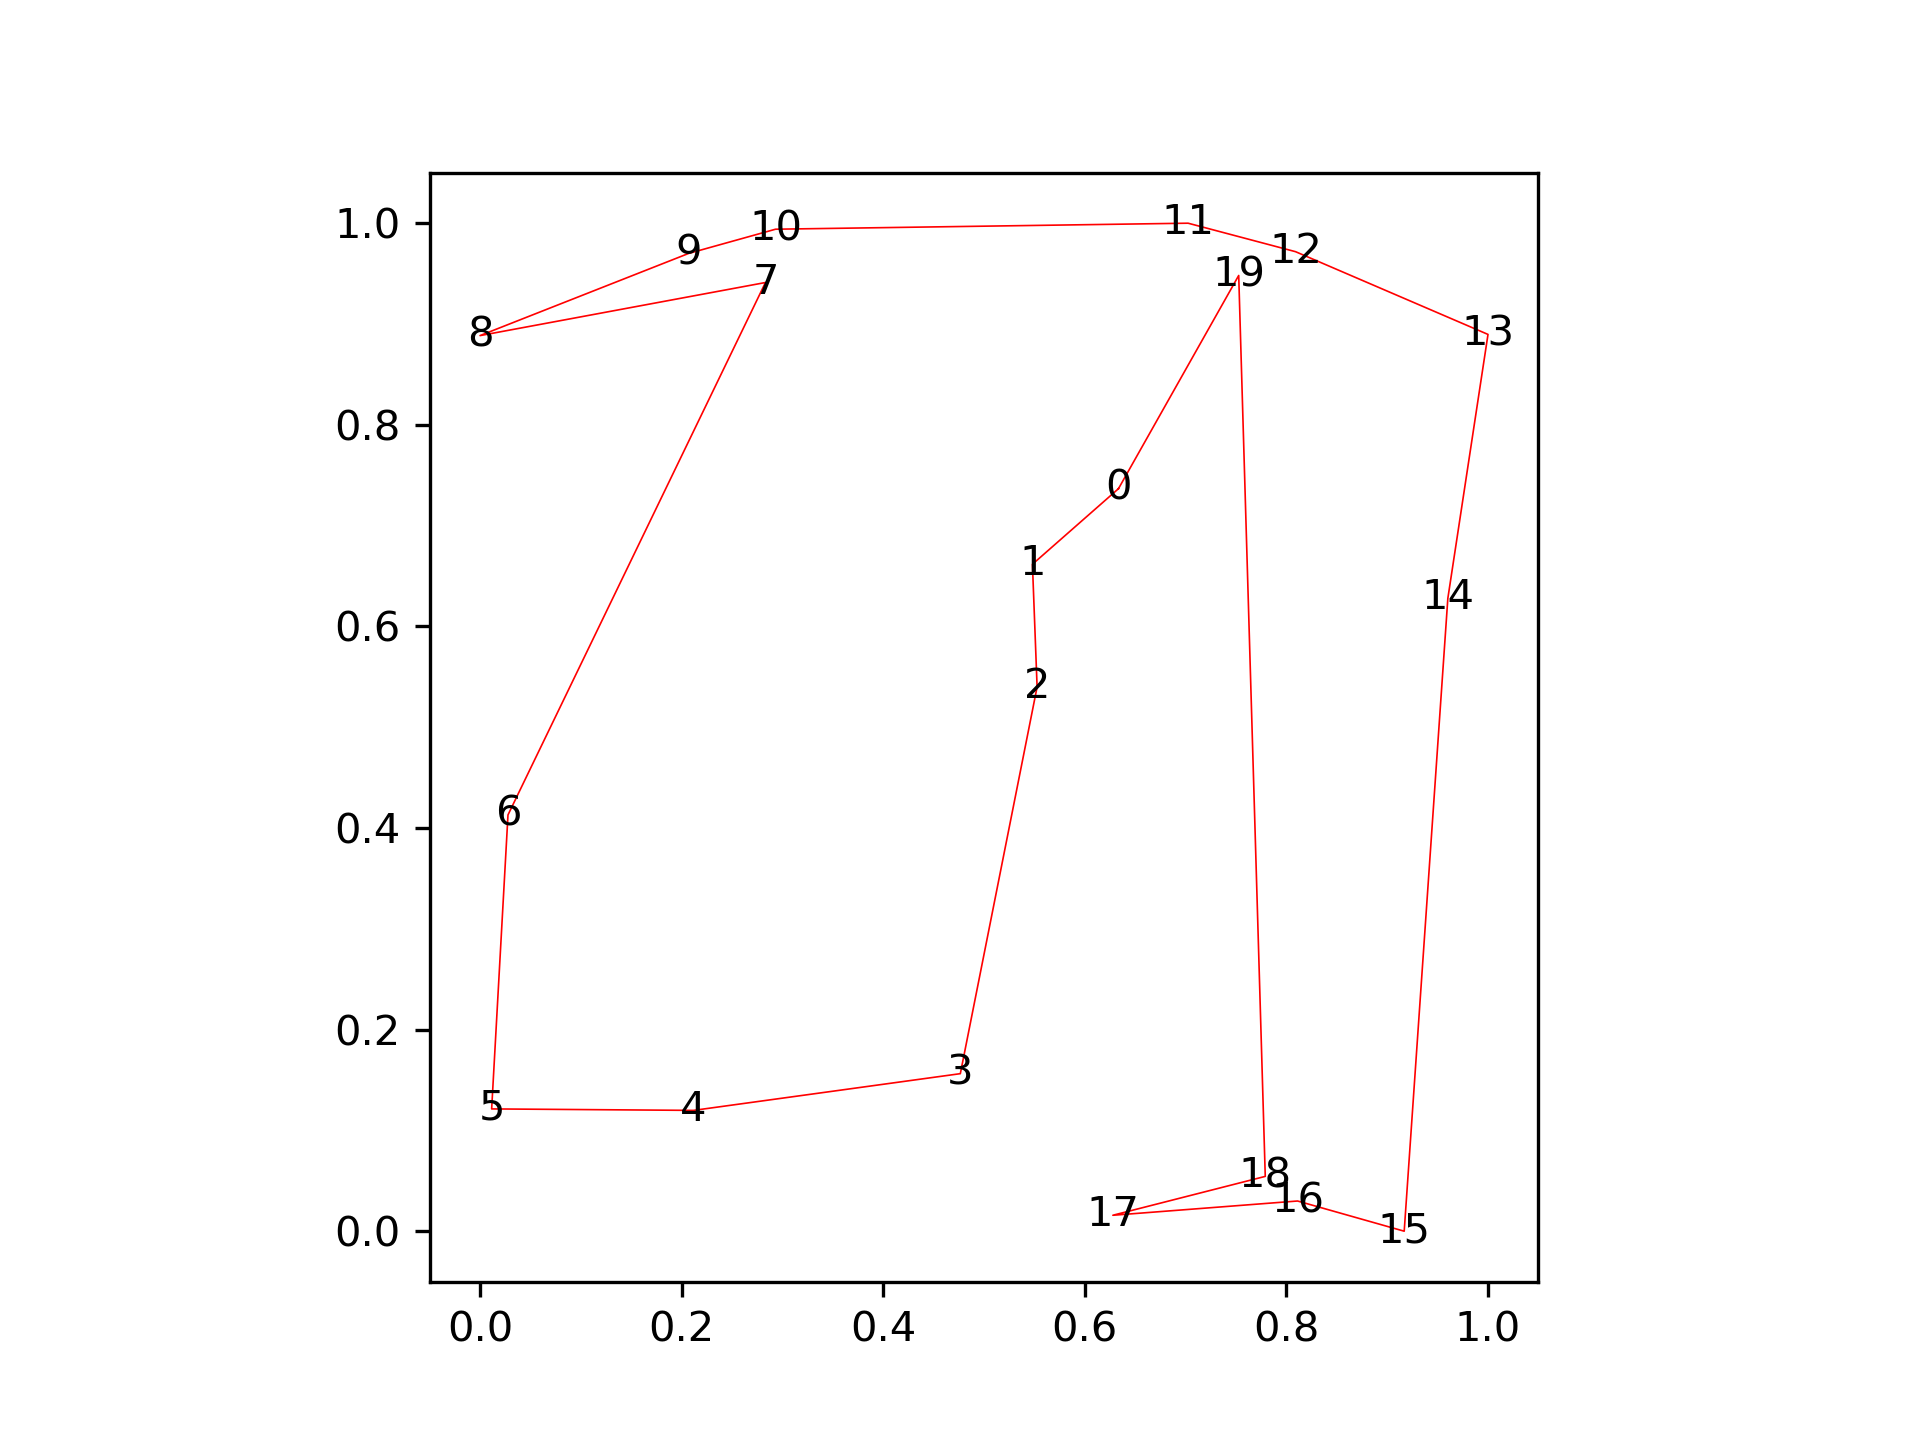
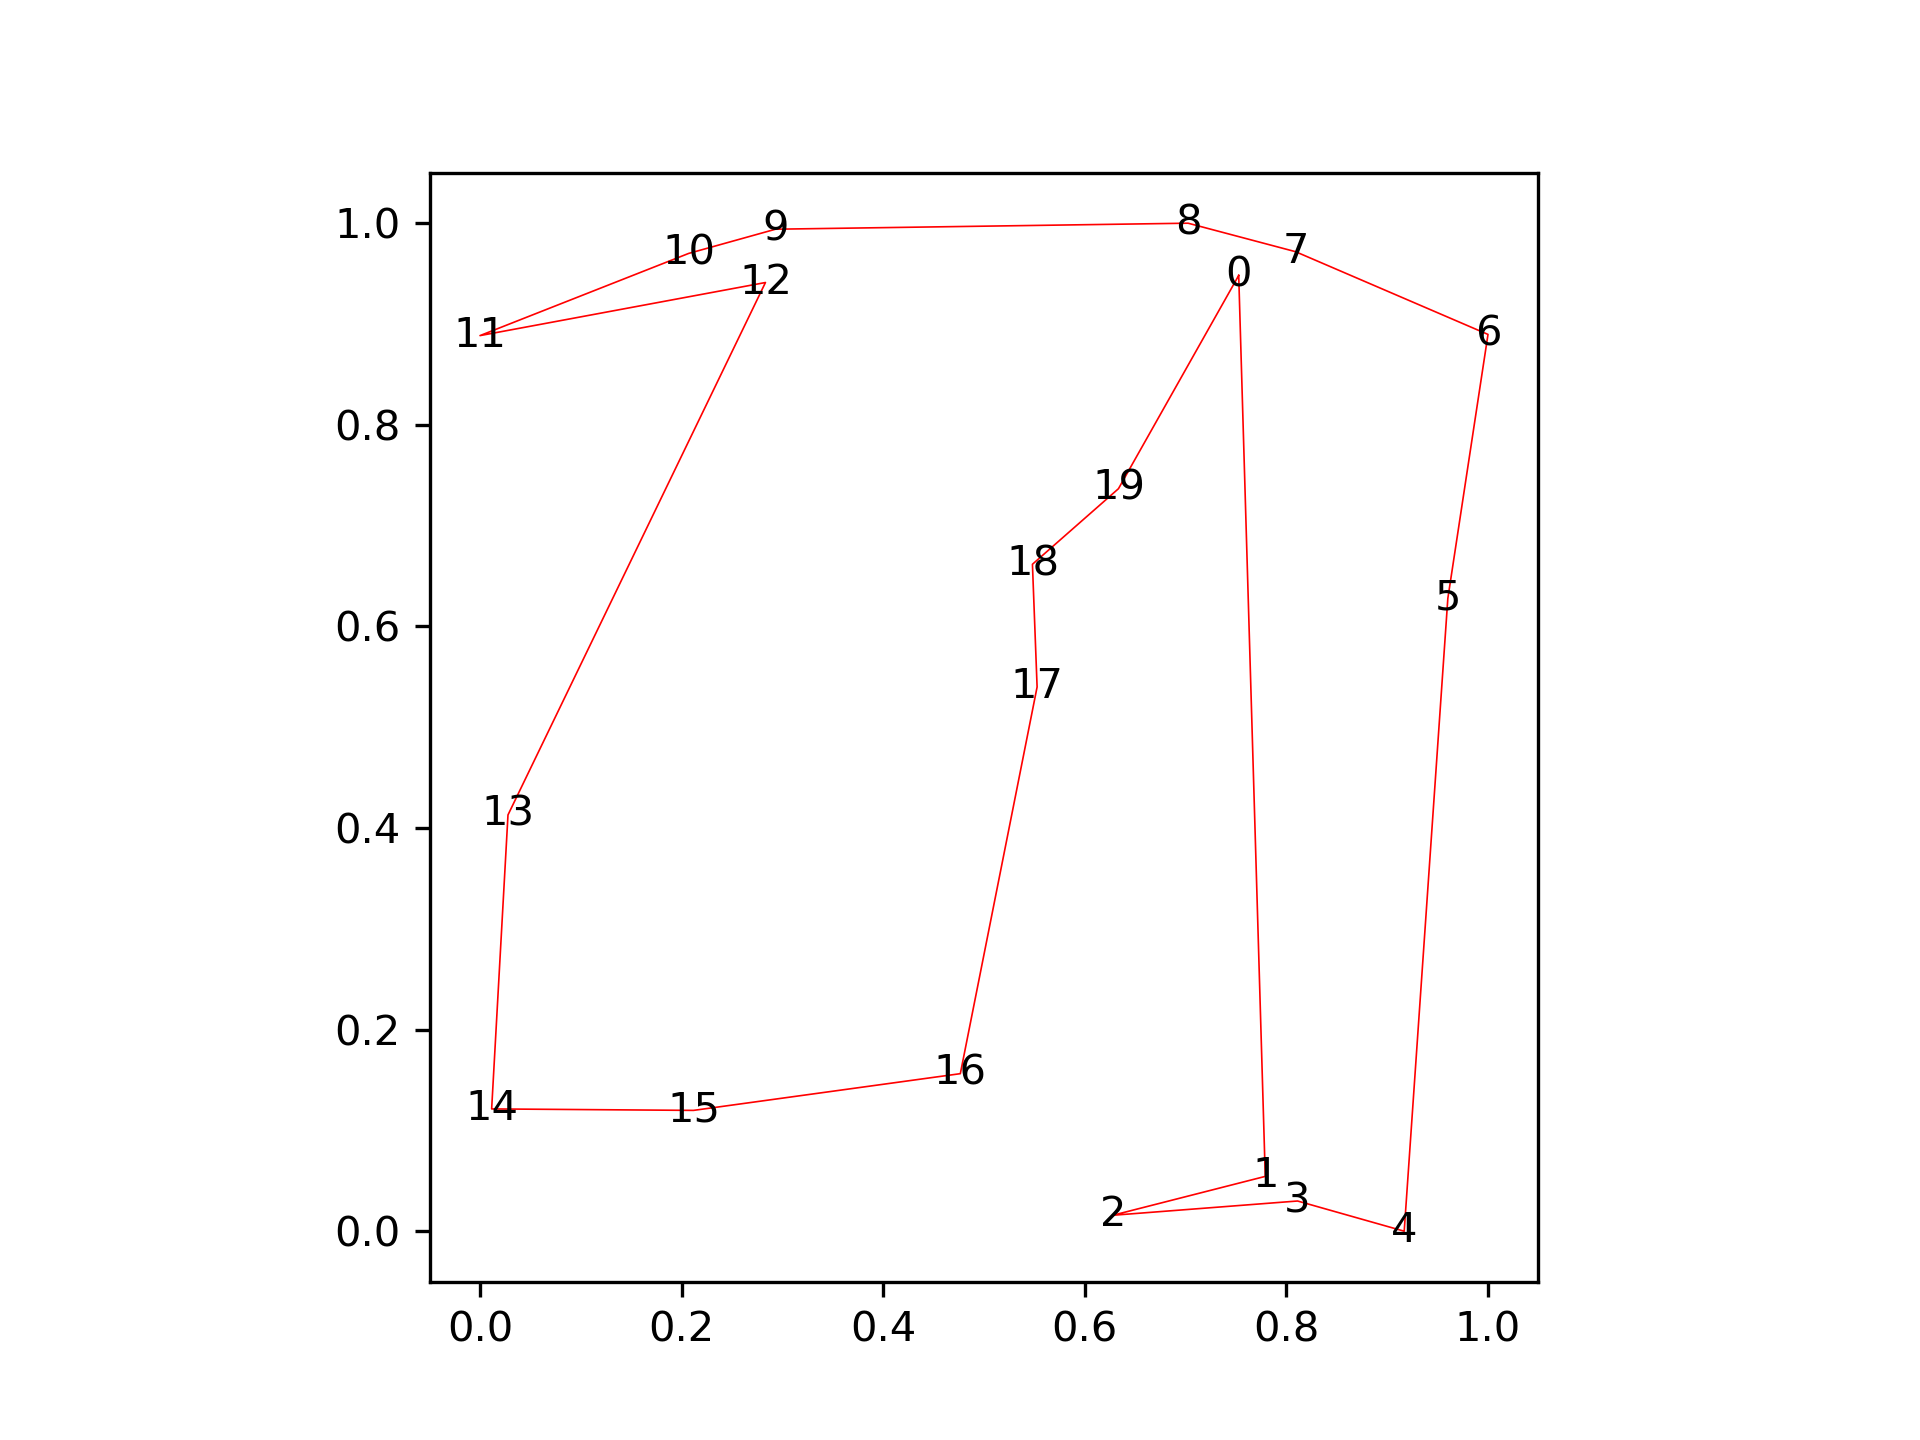
generate all polygons to be counterclockwise

diff --git a/polygenerator.py b/polygenerator.py
@@ -191,6 +191,9 @@ def random_convex_polygon(num_points):
 
     polygon = polygon_from_vectors(vs_sorted)
 
+    if polygon_is_clockwise(polygon):
+        polygon = list(reversed(polygon))
+
     return fit_to_bbox(polygon)
 
 
@@ -205,6 +208,9 @@ def random_star_shaped_polygon(num_points):
         x = r * math.cos(angle)
         y = r * math.sin(angle)
         polygon.append((x, y))
+
+    if polygon_is_clockwise(polygon):
+        polygon = list(reversed(polygon))
 
     return fit_to_bbox(polygon)
 
@@ -295,6 +301,15 @@ def no_edges_intersect(polygon) -> bool:
     return True
 
 
+def polygon_is_clockwise(polygon) -> bool:
+    num_points = len(polygon)
+    s = 0.0
+    for i in range(num_points):
+        j = (i + 1) % num_points
+        s += (polygon[j][0] - polygon[i][0]) * (polygon[j][1] + polygon[i][1])
+    return s > 0.0
+
+
 def random_polygon(num_points):
     """
     "repair" random sequence by 2-opt moves.
@@ -348,6 +363,9 @@ def random_polygon(num_points):
     vertices = recombine_edges(non_intersecting_edges)
 
     polygon = list(map(lambda v: points[v], vertices))
+
+    if polygon_is_clockwise(polygon):
+        polygon = list(reversed(polygon))
 
     return fit_to_bbox(polygon)
 

diff --git a/example.py b/example.py
@@ -33,7 +33,7 @@ random.seed(5)
 polygon = random_polygon(num_points=20)
 
 print(polygon)
-# [(0.633385213909564, 0.7365967958574935), (0.5480555383950588, 0.6616499553124763), (0.5526824773965012, 0.5399082630833278), (0.47651656975044715, 0.1562847171200224), (0.211780263278101, 0.11985024210702566), (0.011563117103044742, 0.12131343894869698), (0.02776777678478965, 0.41297620242381444), (0.2831882595429206, 0.9411514041596818), (0.0, 0.8884881505484779), (0.20701109399057388, 0.9700145767610514), (0.2932049212796463, 0.9940396395241987), (0.7024623622191127, 1.0), (0.809077387585075, 0.9717422011442743), (1.0, 0.889663530991249), (0.9601646445268924, 0.6278354104701399), (0.9168705153810578, 0.0), (0.8110693657038247, 0.02995395054812518), (0.6278284961406966, 0.01581195981039065), (0.7790276993942304, 0.05437135270534656), (0.752691110661913, 0.948158571633034)]
+# [(0.752691110661913, 0.948158571633034), (0.7790276993942304, 0.05437135270534656), ..., (0.633385213909564, 0.7365967958574935)]
 
 plot_polygon(polygon, "random_polygon.png")
 

diff --git a/README.md b/README.md
@@ -23,6 +23,9 @@ There are 3 functions and each returns a list of (x, y) tuples:
 - `random_polygon(num_points)`
 - `random_star_shaped_polygon(num_points)`
 
+All polygons are generated to be counterclockwise. You can reverse the order
+outside if you need the points in clockwise order.
+
 The generated polygon is made to fit the bounding box (0.0, 0.0) ... (1.0, 1.0)
 and you can then scale and translate it to where you need it.
 
@@ -65,7 +68,7 @@ random.seed(5)
 polygon = random_polygon(num_points=20)
 
 print(polygon)
-# [(0.633385213909564, 0.7365967958574935), (0.5480555383950588, 0.6616499553124763), (0.5526824773965012, 0.5399082630833278), (0.47651656975044715, 0.1562847171200224), (0.211780263278101, 0.11985024210702566), (0.011563117103044742, 0.12131343894869698), (0.02776777678478965, 0.41297620242381444), (0.2831882595429206, 0.9411514041596818), (0.0, 0.8884881505484779), (0.20701109399057388, 0.9700145767610514), (0.2932049212796463, 0.9940396395241987), (0.7024623622191127, 1.0), (0.809077387585075, 0.9717422011442743), (1.0, 0.889663530991249), (0.9601646445268924, 0.6278354104701399), (0.9168705153810578, 0.0), (0.8110693657038247, 0.02995395054812518), (0.6278284961406966, 0.01581195981039065), (0.7790276993942304, 0.05437135270534656), (0.752691110661913, 0.948158571633034)]
+# [(0.752691110661913, 0.948158571633034), (0.7790276993942304, 0.05437135270534656), ..., (0.633385213909564, 0.7365967958574935)]
 
 plot_polygon(polygon, "random_polygon.png")
 ```
